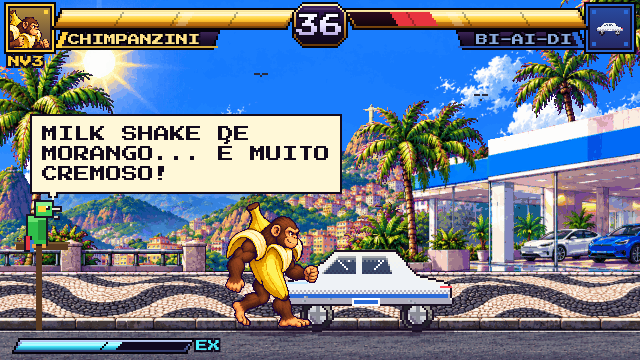
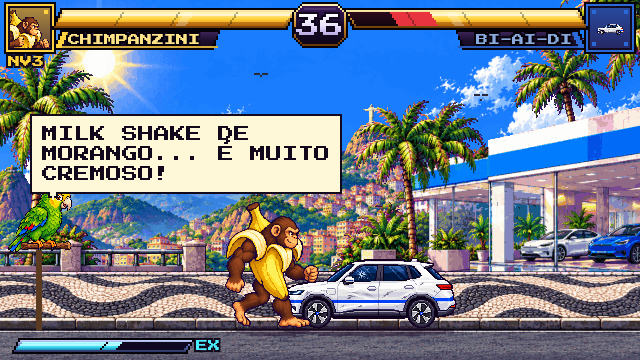
feat(bonus): renova carros e papagaio e documenta direcao de audio

Changed region(s): [[0.4375, 0.6722, 0.7188, 0.9167], [0.0, 0.5194, 0.125, 0.7028], [0.9375, 0.0611, 0.9688, 0.0917]]

diff --git a/tools/process-bonus-art.js b/tools/process-bonus-art.js
@@ -1,0 +1,63 @@
+import fs from 'node:fs';
+import { createCanvas, loadImage } from '@napi-rs/canvas';
+
+const sizes = { nonno: [88, 40], cyber: [96, 46], byd: [88, 40], parrot: [32, 36] };
+const metadata = {};
+const preview = createCanvas(1000, 320),
+  pg = preview.getContext('2d');
+pg.fillStyle = '#32283f';
+pg.fillRect(0, 0, 1000, 320);
+let row = 0;
+for (const [id, [width, height]] of Object.entries(sizes)) {
+  const sheet = createCanvas(256 * 5, 208),
+    g = sheet.getContext('2d');
+  g.imageSmoothingEnabled = false;
+  for (let frame = 0; frame < 5; frame++) {
+    const image = await loadImage(`assets/bonus-art/${id}-${frame}.png`);
+    const source = createCanvas(image.width, image.height),
+      sg = source.getContext('2d');
+    sg.drawImage(image, 0, 0);
+    const pixels = sg.getImageData(0, 0, image.width, image.height);
+    let l = image.width,
+      r = -1,
+      t = image.height,
+      b = -1;
+    for (let y = 0; y < image.height; y++)
+      for (let x = 0; x < image.width; x++) {
+        const i = (y * image.width + x) * 4;
+        if (pixels.data[i + 3] < 128) {
+          pixels.data[i + 3] = 0;
+          continue;
+        }
+        pixels.data[i + 3] = 255;
+        l = Math.min(l, x);
+        r = Math.max(r, x);
+        t = Math.min(t, y);
+        b = Math.max(b, y);
+      }
+    if (r < l) throw new Error('Empty bonus frame: ' + id + frame);
+    sg.putImageData(pixels, 0, 0);
+    const h = height * 2 * (id === 'parrot' ? 1 : frame === 4 ? 0.5 : frame === 3 ? 0.85 : 1);
+    const scale = Math.min((width * 2) / (r - l + 1), h / (b - t + 1));
+    const dw = Math.round((r - l + 1) * scale),
+      dh = Math.round((b - t + 1) * scale);
+    g.drawImage(source, l, t, r - l + 1, b - t + 1, frame * 256 + 128 - Math.floor(dw / 2), 200 - dh, dw, dh);
+  }
+  fs.writeFileSync(`public/atlases/bonus-${id}.png`, sheet.toBuffer('image/png'));
+  metadata[id === 'nonno' ? 'car' : id] = { file: `bonus-${id}.png`, frames: 5 };
+  pg.fillStyle = '#fff';
+  pg.fillText(id, 4, row * 80 + 12);
+  pg.imageSmoothingEnabled = false;
+  for (let i = 0; i < 5; i++)
+    pg.drawImage(sheet, i * 256, 0, 256, 208, i * 200 + 30, row * 80 - 24, 128, 104);
+  row++;
+}
+fs.writeFileSync(
+  'src/game/data/bonus-art.js',
+  '/* Generated by tools/process-bonus-art.js */\nexport const BONUS_ART = ' +
+    JSON.stringify(metadata, null, 2) +
+    ';\n',
+);
+fs.mkdirSync('output/bonus-art', { recursive: true });
+fs.writeFileSync('output/bonus-art/preview.png', preview.toBuffer('image/png'));
+console.log('3 cars × 5 damage states; parrot × 5 poses.');

diff --git a/tests/bonus-art.js b/tests/bonus-art.js
@@ -1,0 +1,33 @@
+import assert from 'node:assert/strict';
+import crypto from 'node:crypto';
+import { T, createCanvas } from './harness.js';
+import { Car } from '../src/game/combat/car.js';
+import { drawBonusArt, hasBonusArt } from '../src/game/sprites/bonus-art.js';
+
+const hash = (canvas) => crypto.createHash('sha256').update(canvas.toBuffer('image/png')).digest('hex');
+for (const ch of Object.values(T.CARS)) {
+  assert.ok(hasBonusArt(ch.id), ch.id + ': loaded atlas');
+  const car = new Car(ch),
+    original = car.hurt();
+  const hashes = [];
+  for (const [i, ratio] of [1, 0.75, 0.5, 0.25, 0].entries()) {
+    car.hp = car.maxhp * ratio;
+    car.dead = i === 4;
+    assert.equal(car.poseInfo().pose, 'd' + i);
+    assert.deepEqual(car.hurt(), original, 'damage preserves collision box');
+    const sprite = T.sprite(ch, car.poseInfo().pose, 0, 0, false, '');
+    assert.equal(sprite.hd, true);
+    hashes.push(hash(sprite));
+  }
+  assert.equal(new Set(hashes).size, 5, ch.id + ': five distinct damage states');
+}
+const canvas = createCanvas(100, 100),
+  g = canvas.getContext('2d');
+const poses = [0, 1, 2, 3, 4].map((frame) => {
+  g.clearRect(0, 0, 100, 100);
+  assert.equal(drawBonusArt(g, 'parrot', frame, 50, 90, 0.5), true);
+  return hash(canvas);
+});
+assert.equal(new Set(poses).size, 5);
+assert.equal(drawBonusArt(g, 'missing', 0, 0, 0), false);
+console.log('ALL OK: bonus damage states, fixed collisions and parrot expressions');

diff --git a/src/game/sprites/sprite.js b/src/game/sprites/sprite.js
@@ -1,6 +1,7 @@
 /* Sprite cache, drawing with facing/scale, and collision profiles measured from the sprite pixels. */
 import { ctx, mk } from '../core/canvas.js';
 import { HD, drawHD } from './hd.js';
+import { hasBonusArt, drawBonusArt } from './bonus-art.js';
 import { OX, OY, SH, SW, setTarget } from './primitives.js';
 
 const SPR = new Map();
@@ -8,7 +9,8 @@ function sprite(ch, pose, f, a, alt, tint) {
   const k = ch.id + '|' + pose + '|' + f + '|' + a + '|' + (alt ? 1 : 0) + '|' + (tint || '');
   let c = SPR.get(k);
   if (c) return c;
-  const hd = !!HD[ch.id];
+  const bonus = ch.id !== 'parrot' && hasBonusArt(ch.id);
+  const hd = !!HD[ch.id] || bonus;
   c = mk(SW * (hd ? 2 : 1), SH * (hd ? 2 : 1));
   c.hd = hd;
   c.own = hd && (pose === 'down' || pose === 'fall');
@@ -19,7 +21,8 @@ function sprite(ch, pose, f, a, alt, tint) {
     g.fillStyle = tint === 'w' ? '#ffffff' : tint === 'p' ? 'rgba(170,60,255,.42)' : 'rgba(90,180,255,.55)';
     g.fillRect(0, 0, c.width, c.height);
   } else {
-    if (hd) drawHD(g, ch, pose, f, a);
+    if (bonus) drawBonusArt(g, ch.id, Number(pose.slice(1)) || 0, OX * 2, OY * 2);
+    else if (hd) drawHD(g, ch, pose, f, a);
     else {
       setTarget(g);
       try {

diff --git a/src/game/combat/bonus.js b/src/game/combat/bonus.js
@@ -32,6 +32,7 @@ class Bonus extends Fight {
     this.bub = null;
     this.parT = 200;
     this.parTalk = 0;
+    this.parReact = 0;
     this.memeN = 0;
   }
   input() {
@@ -68,6 +69,7 @@ class Bonus extends Fight {
     for (const c of this.combo) if (c) c.t--;
     if (this.bub && --this.bub.t <= 0) this.bub = null;
     if (this.type === 'byd') {
+      if (this.parReact > 0) this.parReact--;
       if (this.parTalk > 0) this.parTalk--;
       if (--this.parT <= 0 && !(this.bub && this.bub.who === 'car')) {
         this.parT = 520;
@@ -113,6 +115,7 @@ class Bonus extends Fight {
     }
     const ps = car.poseInfo().pose;
     if (car.state !== ps) {
+      if (this.type === 'byd' && car.state !== undefined) this.parReact = 24;
       if (car.state !== undefined && ps !== 'd4') {
         if (this.type === 'cyber') {
           AU.sfx('crack');
@@ -178,7 +181,7 @@ class Bonus extends Fight {
   }
   drawExtra(cam) {
     if (this.type === 'byd') {
-      parrot(10, 108, this.parTalk > 0, this.tick);
+      parrot(10, 108, this.parTalk > 0 && this.bub?.who === 'parrot', this.tick, this.parReact > 0);
       ctx.fillStyle = '#5a3a20';
       ctx.fillRect(18, 125, 3, 40);
     }

diff --git a/src/game/sprites/bonus-art.js b/src/game/sprites/bonus-art.js
@@ -1,0 +1,38 @@
+import { BONUS_ART } from '../data/bonus-art.js';
+const images = {};
+function loadBonusArt(base) {
+  return Promise.all(
+    Object.entries(BONUS_ART).map(
+      ([id, art]) =>
+        new Promise((resolve) => {
+          const image = new Image();
+          image.onload = () => {
+            images[id] = image;
+            resolve();
+          };
+          image.onerror = () => resolve();
+          image.src = base + '/' + art.file;
+        }),
+    ),
+  );
+}
+function hasBonusArt(id) {
+  return !!images[id];
+}
+function drawBonusArt(g, id, frame, x, y, scale = 1) {
+  if (!images[id]) return false;
+  g.imageSmoothingEnabled = false;
+  g.drawImage(
+    images[id],
+    Math.max(0, Math.min(4, frame)) * 256,
+    0,
+    256,
+    208,
+    x - 128 * scale,
+    y - 200 * scale,
+    256 * scale,
+    208 * scale,
+  );
+  return true;
+}
+export { loadBonusArt, hasBonusArt, drawBonusArt };

diff --git a/src/game/index.js b/src/game/index.js
@@ -11,6 +11,7 @@ import { Intro } from './scenes/intro.js';
 import { Title } from './scenes/title.js';
 import { loadHD } from './sprites/hd.js';
 import { loadProjectileArt } from './sprites/projectile-art.js';
+import { loadBonusArt } from './sprites/bonus-art.js';
 import { artImage, loadStageArt } from './stages/art.js';
 import { useMapArt } from './world/map.js';
 import { buildStages } from './stages/index.js';
@@ -34,6 +35,7 @@ function boot(assetBase, intro, stageBase) {
     fontReady.catch(() => {}),
     loadHD(assetBase),
     loadProjectileArt(assetBase),
+    loadBonusArt(assetBase),
     loadStageArt(stageBase),
   ]).then(() => {
     const map = artImage('map', 'map');

diff --git a/src/game/ui/widgets.js b/src/game/ui/widgets.js
@@ -3,8 +3,11 @@ import { W } from '../config.js';
 import { ctx, txt, wrapTxt } from '../core/canvas.js';
 import { clamp } from '../core/math.js';
 import { XP } from '../progression/xp.js';
+import { drawBonusArt } from '../sprites/bonus-art.js';
 
-function parrot(x, y, talk, t) {
+function parrot(x, y, talk, t, startled = false) {
+  const frame = startled ? 4 : talk ? [1, 2, 1, 0][(t >> 3) & 3] : t % 180 < 8 ? 3 : 0;
+  if (drawBonusArt(ctx, 'parrot', frame, x + 10, y + 18, 0.5)) return;
   const B = (a, b, w, h, c) => {
     ctx.fillStyle = c;
     ctx.fillRect(x + a, y + b, w, h);

diff --git a/src/game/data/bonus-art.js b/src/game/data/bonus-art.js
@@ -1,0 +1,19 @@
+/* Generated by tools/process-bonus-art.js */
+export const BONUS_ART = {
+  "car": {
+    "file": "bonus-nonno.png",
+    "frames": 5
+  },
+  "cyber": {
+    "file": "bonus-cyber.png",
+    "frames": 5
+  },
+  "byd": {
+    "file": "bonus-byd.png",
+    "frames": 5
+  },
+  "parrot": {
+    "file": "bonus-parrot.png",
+    "frames": 5
+  }
+};

diff --git a/docs/arte/carros-e-papagaio.md b/docs/arte/carros-e-papagaio.md
@@ -1,0 +1,29 @@
+# Carros e papagaio — arte e direção de áudio
+
+Os três carros têm cinco desenhos independentes: íntegro, dano leve, médio, severo e sucata. O papagaio tem repouso, duas articulações de fala, piscada e susto. Os prompts completos de `image_gen` estão em `assets/bonus-art/prompts.json`; cada variante usa a mesma imagem-base como referência.
+
+`node tools/process-bonus-art.js` recorta a transparência, reduz com vizinho mais próximo, ancora as bases e grava `public/atlases/bonus-*.png`. O motor carrega os atlases na inicialização e mantém o desenho procedural como fallback. As colisões, HP e limiares de dano dos carros permanecem os mesmos. Os PNGs originais ficam locais em `assets/bonus-art/`, ignorados pelo Git.
+
+## Diagnóstico do áudio atual
+
+O papagaio usa `speechSynthesis`, papel `pt`, pitch 1,9 e velocidade 1,12. A voz depende das vozes instaladas no navegador. `VO.say` cancela a fala em andamento, então as reações de dano do carro cortam o bordão; o temporizador visual de 150 quadros não representa a duração real do áudio. O bordão é repetido a cada 520 quadros, inclusive podendo começar durante o encerramento.
+
+## Recomendação
+
+Usar um banco de clipes locais: áudio original identificado para o bordão e gravações expressivas para frases novas. Falas fixas podem ser geradas uma vez, revisadas e servidas junto ao jogo. Isso mantém a mesma interpretação entre navegadores e elimina latência de geração durante o combate. O áudio original ainda depende de receber o link ou arquivo exato e definir a atribuição/licença do clipe escolhido; ele não foi incluído nesta atualização.
+
+Para frases novas, testar uma voz de personagem brasileira, aguda e levemente rouca, com pausas exageradas e risada curta. Não apenas elevar o pitch de um narrador neutro. Opções pesquisadas em 25/10/2026:
+
+- [ElevenLabs](https://elevenlabs.io/docs/pt/overview/capabilities/text-to-speech): modelos expressivos, direção emocional e design de voz. Experimentar Eleven v4 ou v3 e comparar a interpretação em português. É minha primeira opção para gravar as piadas previamente.
+- [Cartesia Sonic](https://www.cartesia.ai/pt/sonic): português, expressão emocional e risadas; opção para avaliar caso surjam falas dinâmicas durante o jogo.
+
+O resultado cômico precisa de audição e comparação; a lista acima não é uma avaliação auditiva das vozes. Nenhum serviço pago foi conectado e nenhuma chave é necessária para executar o jogo atual.
+
+## Próxima lógica proposta
+
+1. Um canal de voz com prioridade: encerramento > reação importante > bordão ambiente. Não sobrepor falas; descartar bordões vencidos em vez de acumulá-los.
+2. Bordão apenas na fase ativa, no máximo duas execuções por rodada, com intervalo mínimo de 12 segundos e sem repetir o mesmo clipe em sequência quando houver variantes.
+3. Iniciar bico e legenda no evento real de reprodução; parar em `ended`, erro ou interrupção. Usar o volume instantâneo do clipe para controlar a abertura do bico.
+4. Reduzir a música durante a fala e restaurá-la suavemente depois. Volume de voz separado dos efeitos e respeito ao botão de narrador.
+5. Pré-carregar os clipes após interação do jogador. Se faltarem, usar a voz do navegador como fallback; impedir que uma solicitação atrasada toque após sair da cena.
+6. Se houver API no futuro, gerar no servidor com cache por texto/voz/versão. Nunca colocar a chave no cliente. Para este conjunto pequeno de falas, preferir geração prévia.

diff --git a/README.md b/README.md
@@ -220,6 +220,7 @@ Mais detalhes em [docs/jogo/03-controles-e-comandos.md](docs/jogo/03-controles-e
 | `npm run readme:art` | Regera as imagens deste README com o próprio motor |
 | `npm run sprites` | 19 poses por personagem → atlas em `public/atlases/` |
 | `npm run sprites:projectiles` | Empacota os oito artefatos com três fases cada |
+| `npm run sprites:bonus` | Empacota os estados de dano dos carros e as expressões do papagaio |
 
 ### 🧱 Arquitetura
 
